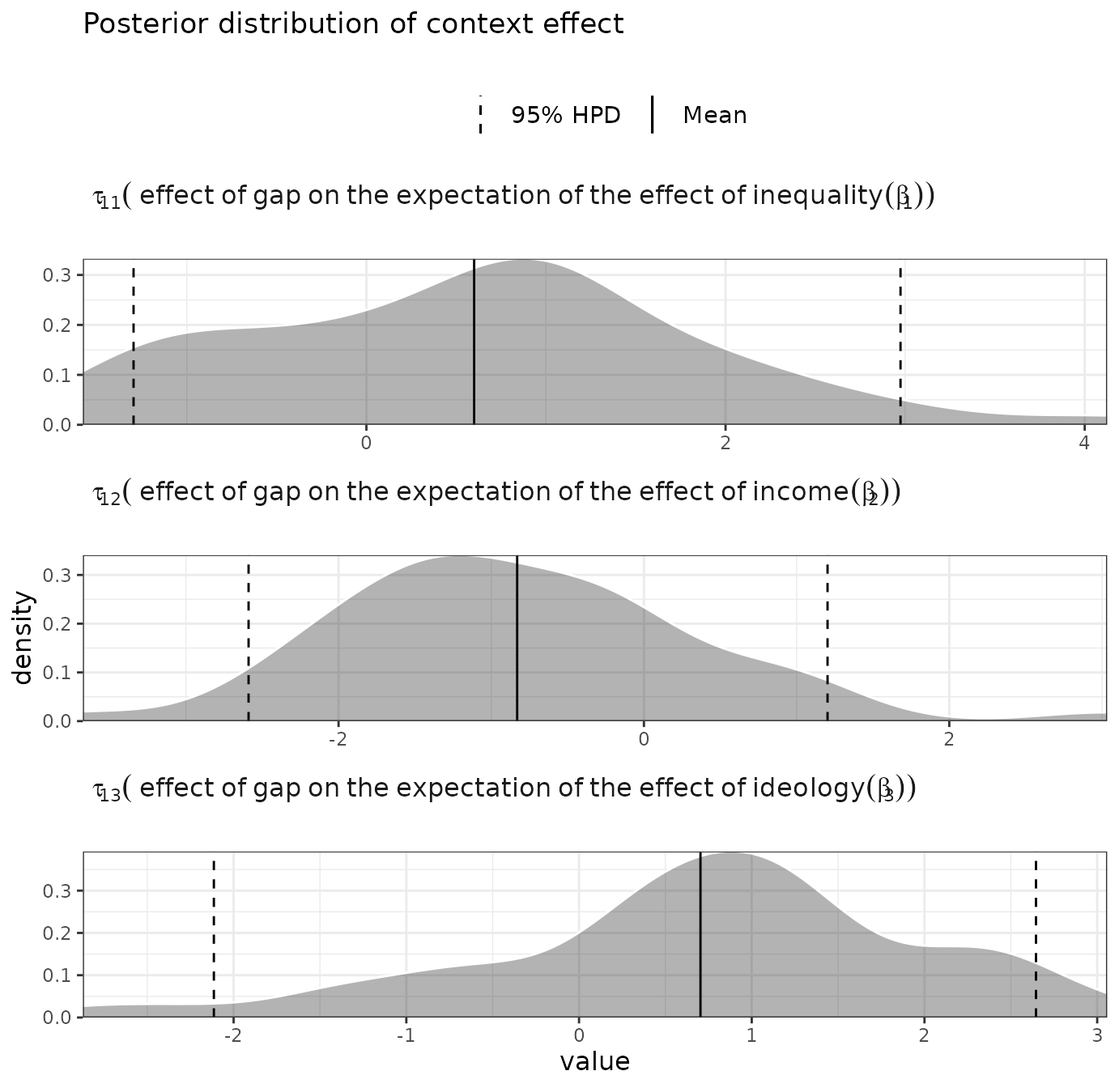
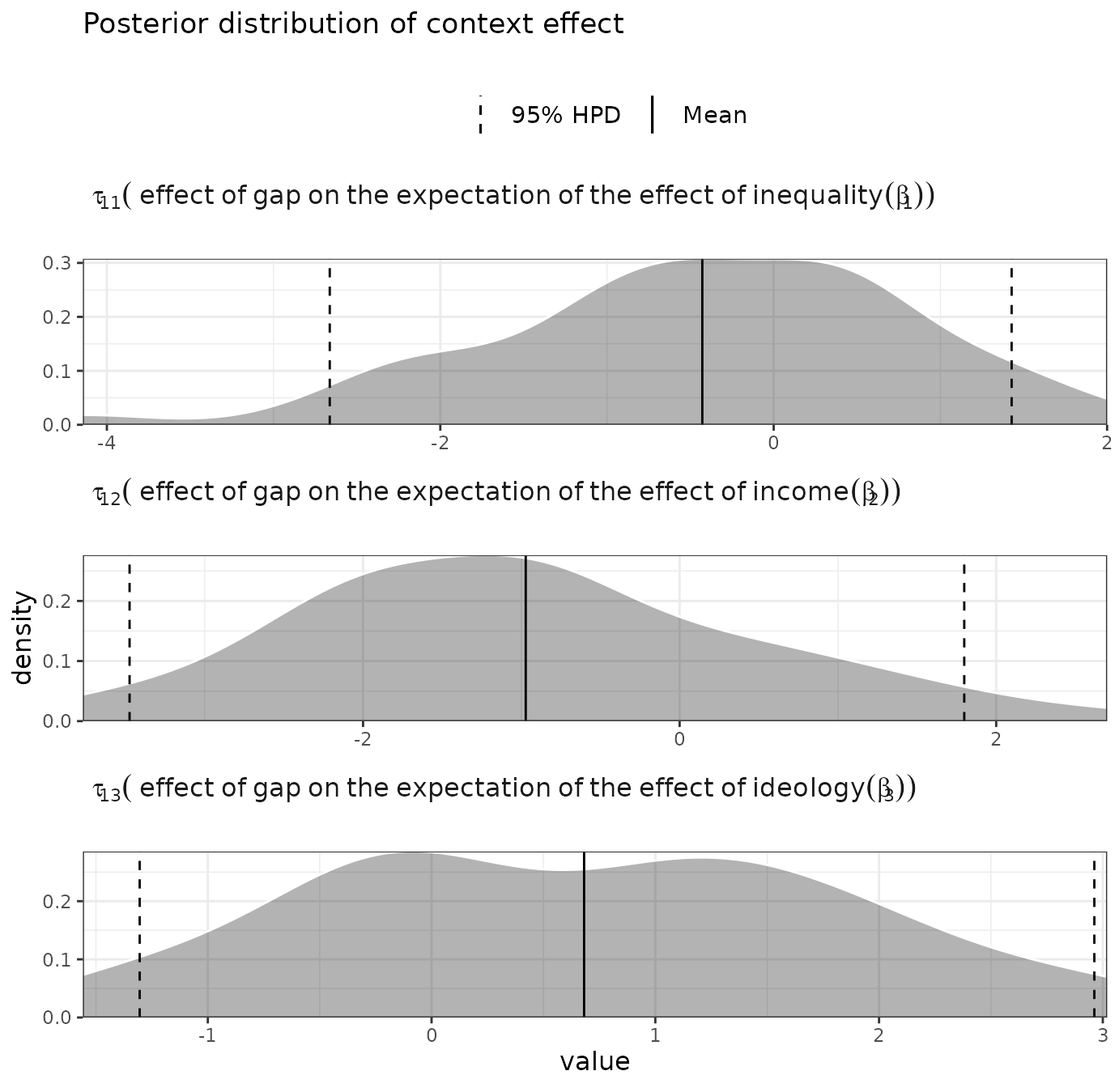
Deploying to gh-pages from @ DiogoFerrari/hdpGLM@8d0c778242d2fbf21b7e170e017e35fa1363b1d6 🚀

diff --git a/articles/hdpGLM.html b/articles/hdpGLM.html
@@ -197,7 +197,7 @@ number.</p>
 <span><span class="co">#&gt; ## ===============================================================</span></span>
 <span><span class="co">#&gt; </span></span>
 <span><span class="co">#&gt; Author: Diogo Ferrari</span></span>
-<span><span class="co">#&gt; Usage : http://www.diogoferrari.com/hdpGLM/index.html</span></span>
+<span><span class="co">#&gt; Usage : https://github.com/DiogoFerrari/hdpGLM</span></span>
 <span><span class="co">#&gt; </span></span>
 <span><span class="co">#&gt; Attaching package: 'hdpGLM'</span></span>
 <span><span class="co">#&gt; The following object is masked _by_ '.GlobalEnv':</span></span>
@@ -216,7 +216,7 @@ number.</p>
 <span><span class="co">#&gt; -------------------------------- </span></span>
 <span><span class="co">#&gt; dpGLM model object</span></span>
 <span><span class="co">#&gt; </span></span>
-<span><span class="co">#&gt; Maximum number of clusters activated during the estimation: 16</span></span>
+<span><span class="co">#&gt; Maximum number of clusters activated during the estimation: 13</span></span>
 <span><span class="co">#&gt; Number of MCMC iterations: 500</span></span>
 <span><span class="co">#&gt; burn-in: 10</span></span>
 <span><span class="co">#&gt; -------------------------------- </span></span>
@@ -226,22 +226,22 @@ number.</p>
 <span><span class="co">#&gt; --------------------------------</span></span>
 <span><span class="co">#&gt; Coefficients for cluster 1 (cluster label 1)</span></span>
 <span><span class="co">#&gt; </span></span>
-<span><span class="co">#&gt;                Post.Mean Post.Median  HPD.lower HPD.upper</span></span>
-<span><span class="co">#&gt; 1 (Intercept) -3.8169985  -3.8191160 -3.8918910 -3.754108</span></span>
-<span><span class="co">#&gt; 2  inequality -1.5166133  -1.5184802 -1.5894280 -1.452637</span></span>
-<span><span class="co">#&gt; 3      income  3.8770504   3.8773247  3.8061103  3.953092</span></span>
-<span><span class="co">#&gt; 4    ideology -8.2546440  -8.2537404 -8.3331949 -8.192447</span></span>
-<span><span class="co">#&gt; 5       sigma  0.9853141   0.9860343  0.8764047  1.094404</span></span>
+<span><span class="co">#&gt;               Post.Mean Post.Median  HPD.lower HPD.upper</span></span>
+<span><span class="co">#&gt; 1 (Intercept) -3.868555   -3.870347 -3.9401487 -3.799338</span></span>
+<span><span class="co">#&gt; 2  inequality  1.998218    1.998661  1.9327976  2.067530</span></span>
+<span><span class="co">#&gt; 3      income  3.846936    3.849141  3.7687215  3.914183</span></span>
+<span><span class="co">#&gt; 4    ideology -8.308009   -8.306441 -8.3865280 -8.237247</span></span>
+<span><span class="co">#&gt; 5       sigma  1.001198    1.000764  0.9169064  1.083288</span></span>
 <span><span class="co">#&gt; </span></span>
 <span><span class="co">#&gt; --------------------------------</span></span>
-<span><span class="co">#&gt; Coefficients for cluster 2 (cluster label 10)</span></span>
+<span><span class="co">#&gt; Coefficients for cluster 2 (cluster label 3)</span></span>
 <span><span class="co">#&gt; </span></span>
-<span><span class="co">#&gt;               Post.Mean Post.Median  HPD.lower HPD.upper</span></span>
-<span><span class="co">#&gt; 1 (Intercept) -3.870622   -3.872127 -3.9370319 -3.798184</span></span>
-<span><span class="co">#&gt; 2  inequality  2.000834    2.000312  1.9220563  2.068377</span></span>
-<span><span class="co">#&gt; 3      income  3.850588    3.848918  3.7810806  3.924965</span></span>
-<span><span class="co">#&gt; 4    ideology -8.308805   -8.309267 -8.3751355 -8.238710</span></span>
-<span><span class="co">#&gt; 5       sigma  1.000533    1.000359  0.9180542  1.098193</span></span>
+<span><span class="co">#&gt;                Post.Mean Post.Median  HPD.lower HPD.upper</span></span>
+<span><span class="co">#&gt; 1 (Intercept) -3.8191774  -3.8193540 -3.8939307 -3.757629</span></span>
+<span><span class="co">#&gt; 2  inequality -1.5227700  -1.5229013 -1.5859318 -1.455159</span></span>
+<span><span class="co">#&gt; 3      income  3.8803664   3.8829602  3.8090166  3.938669</span></span>
+<span><span class="co">#&gt; 4    ideology -8.2592800  -8.2609427 -8.3297705 -8.186700</span></span>
+<span><span class="co">#&gt; 5       sigma  0.9718166   0.9730245  0.8695889  1.078051</span></span>
 <span><span class="co">#&gt; </span></span>
 <span><span class="co">#&gt; --------------------------------</span></span></code></pre></div>
 <p>The summary function prints the result in a tidy format. The column
@@ -254,20 +254,20 @@ points into clusters based on the estimation.</p>
 <code class="sourceCode R"><span><span class="va">welfare_clustered</span> <span class="op">=</span> <span class="fu"><a href="../reference/classify.html">classify</a></span><span class="op">(</span><span class="va">welfare</span>, <span class="va">mod</span><span class="op">)</span></span>
 <span><span class="fu"><a href="https://rdrr.io/r/utils/head.html" class="external-link">head</a></span><span class="op">(</span><span class="va">welfare_clustered</span><span class="op">)</span></span>
 <span><span class="co">#&gt;   Cluster     support inequality     income   ideology</span></span>
-<span><span class="co">#&gt; 1      10 -18.5649610  0.3392724  0.1425111  1.9225985</span></span>
-<span><span class="co">#&gt; 2      10  -9.3905812 -0.9906646 -0.5117102  0.2483346</span></span>
-<span><span class="co">#&gt; 3      10   0.9276234 -2.2318510 -0.3856288 -1.3619216</span></span>
-<span><span class="co">#&gt; 4      10 -12.3594498 -3.0079501 -0.9440585 -0.2088675</span></span>
-<span><span class="co">#&gt; 5       1  -2.4834411  0.1000455  0.8322192  0.1321378</span></span>
-<span><span class="co">#&gt; 6      10 -11.4187853 -0.9543883 -0.8810503  0.2916444</span></span>
+<span><span class="co">#&gt; 1       1 -18.5649610  0.3392724  0.1425111  1.9225985</span></span>
+<span><span class="co">#&gt; 2       1  -9.3905812 -0.9906646 -0.5117102  0.2483346</span></span>
+<span><span class="co">#&gt; 3       1   0.9276234 -2.2318510 -0.3856288 -1.3619216</span></span>
+<span><span class="co">#&gt; 4       1 -12.3594498 -3.0079501 -0.9440585 -0.2088675</span></span>
+<span><span class="co">#&gt; 5       3  -2.4834411  0.1000455  0.8322192  0.1321378</span></span>
+<span><span class="co">#&gt; 6       1 -11.4187853 -0.9543883 -0.8810503  0.2916444</span></span>
 <span><span class="fu"><a href="https://rdrr.io/r/utils/head.html" class="external-link">tail</a></span><span class="op">(</span><span class="va">welfare_clustered</span><span class="op">)</span></span>
 <span><span class="co">#&gt;      Cluster     support  inequality     income   ideology</span></span>
-<span><span class="co">#&gt; 1995       1  -1.5230053 1.055855140 -0.7295937 -0.7067871</span></span>
-<span><span class="co">#&gt; 1996       1   0.4814892 0.582588091  2.0051082  0.3090389</span></span>
-<span><span class="co">#&gt; 1997       1 -14.1929956 0.391164197 -0.9607449  0.7765482</span></span>
-<span><span class="co">#&gt; 1998       1  -8.2396789 0.074437376  1.2020300  1.0874928</span></span>
-<span><span class="co">#&gt; 1999       1 -23.1583753 0.434223018 -0.6176438  2.0387294</span></span>
-<span><span class="co">#&gt; 2000       1  -7.2075582 0.008355317 -0.4538951  0.2268072</span></span></code></pre></div>
+<span><span class="co">#&gt; 1995       3  -1.5230053 1.055855140 -0.7295937 -0.7067871</span></span>
+<span><span class="co">#&gt; 1996       3   0.4814892 0.582588091  2.0051082  0.3090389</span></span>
+<span><span class="co">#&gt; 1997       3 -14.1929956 0.391164197 -0.9607449  0.7765482</span></span>
+<span><span class="co">#&gt; 1998       3  -8.2396789 0.074437376  1.2020300  1.0874928</span></span>
+<span><span class="co">#&gt; 1999       3 -23.1583753 0.434223018 -0.6176438  2.0387294</span></span>
+<span><span class="co">#&gt; 2000       3  -7.2075582 0.008355317 -0.4538951  0.2268072</span></span></code></pre></div>
 <p>There are a series of built-in functions, with various options, to
 plot the results. In the example below, you see two of those options.
 The <code>separate</code> parameter plot the posterior samples for each
@@ -339,8 +339,8 @@ increase that).</p>
 <span><span class="co">#&gt; </span></span>
 <span><span class="co">#&gt; Number of clusters (summary across contexts): </span></span>
 <span><span class="co">#&gt; </span></span>
-<span><span class="co">#&gt;   Average  Std.Dev Median Min. Max.</span></span>
-<span><span class="co">#&gt; 1     3.8 2.588436      3    1    7</span></span>
+<span><span class="co">#&gt;   Average   Std.Dev Median Min. Max.</span></span>
+<span><span class="co">#&gt; 1     4.4 0.8944272      5    3    5</span></span>
 <span><span class="co">#&gt; -------------------------------- </span></span>
 <span><span class="co">#&gt; </span></span>
 <span><span class="co">#&gt; </span></span>
@@ -349,115 +349,127 @@ increase that).</p>
 <span><span class="co">#&gt; --------------------------------</span></span>
 <span><span class="co">#&gt; Coefficients and clusters for context 1</span></span>
 <span><span class="co">#&gt; </span></span>
-<span><span class="co">#&gt;               Post.Mean Post.Median HPD.lower   HPD.upper Cluster</span></span>
-<span><span class="co">#&gt; 1 (Intercept) -3.812585   -3.812623 -3.887795 -3.75324806       1</span></span>
-<span><span class="co">#&gt; 2  inequality -1.358832   -1.520807 -1.585257  0.01854296       1</span></span>
-<span><span class="co">#&gt; 3      income  3.869229    3.871477  3.783608  3.95943658       1</span></span>
-<span><span class="co">#&gt; 4    ideology -8.289369   -8.272530 -8.486057 -8.20616875       1</span></span>
-<span><span class="co">#&gt; 5 (Intercept) -4.010705   -3.890695 -5.099688 -3.79557013       6</span></span>
-<span><span class="co">#&gt; 6  inequality  1.911035    1.990635  1.023356  2.08476848       6</span></span>
-<span><span class="co">#&gt; 7      income  3.982400    3.860998  3.791823  5.06405112       6</span></span>
-<span><span class="co">#&gt; 8    ideology -8.067727   -8.278478 -8.416527 -5.82263865       6</span></span>
+<span><span class="co">#&gt;                Post.Mean Post.Median  HPD.lower  HPD.upper Cluster</span></span>
+<span><span class="co">#&gt; 1  (Intercept) -3.800370   -3.783466 -3.9922197 -3.6122484       1</span></span>
+<span><span class="co">#&gt; 2   inequality  1.618596    1.833289  0.4759513  2.2912792       1</span></span>
+<span><span class="co">#&gt; 3       income  3.994601    3.990519  3.8265595  4.1912458       1</span></span>
+<span><span class="co">#&gt; 4     ideology -8.204922   -8.124089 -8.5786529 -7.9818213       1</span></span>
+<span><span class="co">#&gt; 5  (Intercept) -3.887592   -3.836871 -4.2888973 -3.7711119       2</span></span>
+<span><span class="co">#&gt; 6   inequality -1.473288   -1.568839 -1.6257933 -0.4638036       2</span></span>
+<span><span class="co">#&gt; 7       income  3.789683    3.877229  2.9838594  3.9275172       2</span></span>
+<span><span class="co">#&gt; 8     ideology -8.425623   -8.267579 -9.8263060 -8.1811864       2</span></span>
+<span><span class="co">#&gt; 9  (Intercept) -3.628117   -3.584349 -4.7977776 -2.4206453       8</span></span>
+<span><span class="co">#&gt; 10  inequality -1.614825   -1.749338 -2.7532028 -0.4408354       8</span></span>
+<span><span class="co">#&gt; 11      income  3.583080    3.774711  1.1701386  4.7216837       8</span></span>
+<span><span class="co">#&gt; 12    ideology -5.959179   -5.893952 -8.3520753 -2.0997397       8</span></span>
+<span><span class="co">#&gt; 13 (Intercept) -3.884210   -3.899800 -4.1935667 -3.7610941      10</span></span>
+<span><span class="co">#&gt; 14  inequality  2.071299    2.008700  1.8798002  2.3388525      10</span></span>
+<span><span class="co">#&gt; 15      income  3.819035    3.804780  3.6693099  4.0939735      10</span></span>
+<span><span class="co">#&gt; 16    ideology -8.313785   -8.340803 -8.7999466 -8.1057009      10</span></span>
 <span><span class="co">#&gt; </span></span>
 <span><span class="co">#&gt; --------------------------------</span></span>
 <span><span class="co">#&gt; Coefficients and clusters for context 2</span></span>
 <span><span class="co">#&gt; </span></span>
-<span><span class="co">#&gt;                 Post.Mean Post.Median  HPD.lower     HPD.upper Cluster</span></span>
-<span><span class="co">#&gt; 1  (Intercept)  1.5482685   0.9413472 -0.1401382  5.3443790812       1</span></span>
-<span><span class="co">#&gt; 2   inequality  0.2470163   0.1191455 -3.9739251  3.8748005285       1</span></span>
-<span><span class="co">#&gt; 3       income  1.8724505   1.0146681 -2.5288670  6.0807805776       1</span></span>
-<span><span class="co">#&gt; 4     ideology -1.3170204  -1.5976388 -4.6574534  2.7888708223       1</span></span>
-<span><span class="co">#&gt; 5  (Intercept)  1.5285735   1.4807925  1.2891914  1.9462248942       2</span></span>
-<span><span class="co">#&gt; 6   inequality  0.8432104   1.0013248  0.1601813  1.1977333480       2</span></span>
-<span><span class="co">#&gt; 7       income  0.7503137   0.7819057  0.3035157  0.9630269993       2</span></span>
-<span><span class="co">#&gt; 8     ideology -1.8872858  -1.7688398 -3.1950157 -1.5820123823       2</span></span>
-<span><span class="co">#&gt; 9  (Intercept) -0.2717237  -0.2489124 -0.6931113  0.0003502826       3</span></span>
-<span><span class="co">#&gt; 10  inequality -1.1563480  -1.1882276 -1.4052772 -0.8054131537       3</span></span>
-<span><span class="co">#&gt; 11      income -0.3685679  -0.4538476 -0.7646824  0.5398268384       3</span></span>
-<span><span class="co">#&gt; 12    ideology -2.2564023  -2.2724278 -2.4893145 -1.9787167576       3</span></span>
-<span><span class="co">#&gt; 13 (Intercept)  0.9508466   1.0900442 -0.7672420  3.1286138997       4</span></span>
-<span><span class="co">#&gt; 14  inequality -1.4791436  -1.1875157 -4.3939827  0.7953665602       4</span></span>
-<span><span class="co">#&gt; 15      income  1.7719908   1.7138220  1.0330258  2.7049540609       4</span></span>
-<span><span class="co">#&gt; 16    ideology -1.1026112  -0.7876458 -4.1553742  0.6894510312       4</span></span>
-<span><span class="co">#&gt; 17 (Intercept)  0.3903606   0.4015931 -0.3902788  0.8240772520       5</span></span>
-<span><span class="co">#&gt; 18  inequality  1.7579351   1.8247953  1.0788931  2.3141305561       5</span></span>
-<span><span class="co">#&gt; 19      income  0.8279896   0.7312969  0.4055766  1.5182004959       5</span></span>
-<span><span class="co">#&gt; 20    ideology -2.3099216  -2.2721546 -2.8327201 -1.9184424018       5</span></span>
-<span><span class="co">#&gt; 21 (Intercept) -0.4948082  -0.2769538 -3.3936984  0.9411309421       8</span></span>
-<span><span class="co">#&gt; 22  inequality -0.9021012  -0.9460951 -1.7583695  1.2316576586       8</span></span>
-<span><span class="co">#&gt; 23      income -0.3295737  -0.4314418 -1.3506383  2.3222936362       8</span></span>
-<span><span class="co">#&gt; 24    ideology -1.0219960  -1.2538095 -2.6139513  1.6627378018       8</span></span>
-<span><span class="co">#&gt; 25 (Intercept)  1.5827843   1.5869876  0.8716365  2.5070728683       9</span></span>
-<span><span class="co">#&gt; 26  inequality  0.6945229   0.6974450 -0.7722265  1.9164806682       9</span></span>
-<span><span class="co">#&gt; 27      income  0.6169998   0.7941595 -1.3161252  2.0614764072       9</span></span>
-<span><span class="co">#&gt; 28    ideology -2.6157978  -2.4635686 -4.4834678 -0.4892047111       9</span></span>
-<span><span class="co">#&gt; </span></span>
-<span><span class="co">#&gt; --------------------------------</span></span>
-<span><span class="co">#&gt; Coefficients and clusters for context 4</span></span>
-<span><span class="co">#&gt; </span></span>
-<span><span class="co">#&gt;                 Post.Mean Post.Median  HPD.lower  HPD.upper Cluster</span></span>
-<span><span class="co">#&gt; 1 (Intercept)  0.08364021   0.1154415 -0.6530777  0.5165699       2</span></span>
-<span><span class="co">#&gt; 2  inequality -1.09572042  -1.0981277 -1.2467635 -0.8834268       2</span></span>
-<span><span class="co">#&gt; 3      income -2.43025240  -2.5680450 -2.7623654 -0.4334839       2</span></span>
-<span><span class="co">#&gt; 4    ideology -0.10958224  -0.1086207 -0.4067710  0.2360204       2</span></span>
-<span><span class="co">#&gt; </span></span>
-<span><span class="co">#&gt; --------------------------------</span></span>
-<span><span class="co">#&gt; Coefficients and clusters for context 5</span></span>
-<span><span class="co">#&gt; </span></span>
-<span><span class="co">#&gt;                  Post.Mean Post.Median  HPD.lower  HPD.upper Cluster</span></span>
-<span><span class="co">#&gt; 1  (Intercept)  0.95513955  0.92491626  0.2200681  2.9018225       2</span></span>
-<span><span class="co">#&gt; 2   inequality -3.06973403 -3.02921869 -3.9374967 -1.7614430       2</span></span>
-<span><span class="co">#&gt; 3       income  0.06694747  0.01568205 -0.4811542  0.8601315       2</span></span>
-<span><span class="co">#&gt; 4     ideology -2.65542954 -2.73707320 -4.1943833 -1.5911375       2</span></span>
-<span><span class="co">#&gt; 5  (Intercept)  0.62045630  0.81435738 -3.2090353  3.1139297       3</span></span>
-<span><span class="co">#&gt; 6   inequality -2.33563237 -2.71479039 -4.1079529  2.8869986       3</span></span>
-<span><span class="co">#&gt; 7       income -0.64957141 -1.29758231 -4.1718455  2.9489251       3</span></span>
-<span><span class="co">#&gt; 8     ideology -1.52958518 -1.95172925 -8.5021049  4.1111532       3</span></span>
-<span><span class="co">#&gt; 9  (Intercept) -0.21737068 -0.29826126 -1.5851549  0.7740002       5</span></span>
-<span><span class="co">#&gt; 10  inequality -2.17331081 -2.26943058 -3.7153081 -1.4183500       5</span></span>
-<span><span class="co">#&gt; 11      income -0.11582130 -0.04680592 -0.9651180  0.6759692       5</span></span>
-<span><span class="co">#&gt; 12    ideology -1.07515421 -1.10491210 -2.6587556  1.8037906       5</span></span>
-<span><span class="co">#&gt; 13 (Intercept) -0.08809918 -0.11626902 -0.4907884  0.6644956       7</span></span>
-<span><span class="co">#&gt; 14  inequality  1.00471276  0.95489288  0.6972902  1.6411457       7</span></span>
-<span><span class="co">#&gt; 15      income -0.41360624 -0.36933672 -1.3102114 -0.1223445       7</span></span>
-<span><span class="co">#&gt; 16    ideology -1.82000287 -1.91785259 -2.1520805 -0.3250652       7</span></span>
-<span><span class="co">#&gt; 17 (Intercept) -0.17690480 -0.14926750 -0.6179532  0.3347957       8</span></span>
-<span><span class="co">#&gt; 18  inequality -1.46618215 -2.11007655 -2.8508528  0.9472613       8</span></span>
-<span><span class="co">#&gt; 19      income -0.15596091 -0.06328917 -0.7146788  0.4247225       8</span></span>
-<span><span class="co">#&gt; 20    ideology -2.62329883 -2.60434821 -3.1860973 -2.1389238       8</span></span>
-<span><span class="co">#&gt; 21 (Intercept)  1.03859507  1.06333312 -0.7150022  3.6412196       9</span></span>
-<span><span class="co">#&gt; 22  inequality -2.50520609 -2.67322151 -3.8673556 -0.7558472       9</span></span>
-<span><span class="co">#&gt; 23      income -0.29257262 -0.65003751 -2.0775271  1.0751024       9</span></span>
-<span><span class="co">#&gt; 24    ideology -2.05845535 -1.98679230 -4.7719357 -0.4752583       9</span></span>
+<span><span class="co">#&gt;                  Post.Mean Post.Median    HPD.lower   HPD.upper Cluster</span></span>
+<span><span class="co">#&gt; 1  (Intercept)  0.29661530   0.3406813  0.008064511  0.61786049       1</span></span>
+<span><span class="co">#&gt; 2   inequality -0.32863626  -0.3736720 -0.664763858  0.15967424       1</span></span>
+<span><span class="co">#&gt; 3       income -0.37614820  -0.3799771 -0.471688696 -0.22234621       1</span></span>
+<span><span class="co">#&gt; 4     ideology -2.03868484  -2.0651415 -2.551952653 -1.55206318       1</span></span>
+<span><span class="co">#&gt; 5  (Intercept)  0.52701714   0.5477522 -0.238967913  1.48582507       4</span></span>
+<span><span class="co">#&gt; 6   inequality  0.42033760   0.1351329 -1.004660724  3.15798321       4</span></span>
+<span><span class="co">#&gt; 7       income  1.17765322   1.1770868 -0.642542298  2.18268473       4</span></span>
+<span><span class="co">#&gt; 8     ideology -0.75998524  -0.3307561 -2.658230853  0.77443607       4</span></span>
+<span><span class="co">#&gt; 9  (Intercept) -0.05197006  -0.1327031 -0.389494004  0.97375674       5</span></span>
+<span><span class="co">#&gt; 10  inequality -1.43736803  -1.3837922 -2.015643720 -1.15644490       5</span></span>
+<span><span class="co">#&gt; 11      income -0.80396959  -0.7983870 -1.242554573 -0.54326017       5</span></span>
+<span><span class="co">#&gt; 12    ideology -2.59894715  -2.5018236 -4.310713254 -2.26228096       5</span></span>
+<span><span class="co">#&gt; 13 (Intercept)  1.13875937   1.2030687 -0.106233685  1.61555976       7</span></span>
+<span><span class="co">#&gt; 14  inequality  1.04413616   0.9685113  0.643769967  2.11794429       7</span></span>
+<span><span class="co">#&gt; 15      income  1.05771182   0.9606064  0.635653579  2.77769657       7</span></span>
+<span><span class="co">#&gt; 16    ideology -1.56671347  -1.6526658 -1.971240198 -0.41946366       7</span></span>
+<span><span class="co">#&gt; 17 (Intercept) -0.33710642  -0.3938162 -1.050412149  0.98192815       8</span></span>
+<span><span class="co">#&gt; 18  inequality -1.11500445  -1.0960214 -1.865566798 -0.01620748       8</span></span>
+<span><span class="co">#&gt; 19      income -0.34283137  -0.4145159 -0.810511530  0.65655544       8</span></span>
+<span><span class="co">#&gt; 20    ideology -2.05109332  -2.1564527 -2.596017861 -1.13565926       8</span></span>
 <span><span class="co">#&gt; </span></span>
 <span><span class="co">#&gt; --------------------------------</span></span>
 <span><span class="co">#&gt; Coefficients and clusters for context 3</span></span>
 <span><span class="co">#&gt; </span></span>
-<span><span class="co">#&gt;                 Post.Mean Post.Median  HPD.lower  HPD.upper Cluster</span></span>
-<span><span class="co">#&gt; 1  (Intercept) -0.1740308 -0.18628546 -0.4192022  0.2007200       3</span></span>
-<span><span class="co">#&gt; 2   inequality  0.5136865  0.45453972  0.2457688  1.1597659       3</span></span>
-<span><span class="co">#&gt; 3       income -2.8561609 -2.78959689 -3.9482222 -2.4206947       3</span></span>
-<span><span class="co">#&gt; 4     ideology  2.4374605  2.44519226  1.9058576  3.3392848       3</span></span>
-<span><span class="co">#&gt; 5  (Intercept) -0.1228627 -0.04712069 -1.3127186  0.3200305       4</span></span>
-<span><span class="co">#&gt; 6   inequality  1.5094112  1.31468749  0.2514931  6.8307673       4</span></span>
-<span><span class="co">#&gt; 7       income -3.3471268 -3.47594917 -4.2742524 -1.7424259       4</span></span>
-<span><span class="co">#&gt; 8     ideology  1.4321723  1.72255869 -2.0775788  2.4820400       4</span></span>
-<span><span class="co">#&gt; 9  (Intercept) -0.1157258 -0.25570425 -0.4471715  2.2532281       5</span></span>
-<span><span class="co">#&gt; 10  inequality -0.6621056 -0.62730342 -1.2002166 -0.4059057       5</span></span>
-<span><span class="co">#&gt; 11      income -4.0781626 -4.08606584 -4.3318154 -3.6821355       5</span></span>
-<span><span class="co">#&gt; 12    ideology  0.5819177  0.58128869  0.2651552  0.9355151       5</span></span>
+<span><span class="co">#&gt;                 Post.Mean Post.Median  HPD.lower   HPD.upper Cluster</span></span>
+<span><span class="co">#&gt; 1  (Intercept) -0.2312422 -0.25482905 -0.4252981  0.09198443       1</span></span>
+<span><span class="co">#&gt; 2   inequality -0.4148372 -0.47798895 -0.6330432 -0.13441767       1</span></span>
+<span><span class="co">#&gt; 3       income -3.9181901 -3.80947924 -4.4666399 -3.45128977       1</span></span>
+<span><span class="co">#&gt; 4     ideology  0.5575980  0.41655557  0.2586098  1.17214941       1</span></span>
+<span><span class="co">#&gt; 5  (Intercept)  0.5244460  0.44056280  0.2906812  1.49459758       2</span></span>
+<span><span class="co">#&gt; 6   inequality -0.3655482 -0.37508005 -0.6095646 -0.17916480       2</span></span>
+<span><span class="co">#&gt; 7       income -3.4744648 -3.45899487 -3.6006148 -3.34967926       2</span></span>
+<span><span class="co">#&gt; 8     ideology  1.4362724  1.44275998  1.2135763  1.61715689       2</span></span>
+<span><span class="co">#&gt; 9  (Intercept) -0.8756784 -0.83562054 -1.9480126  0.06677308       4</span></span>
+<span><span class="co">#&gt; 10  inequality  0.6314807  0.67117685 -0.3009253  1.74407685       4</span></span>
+<span><span class="co">#&gt; 11      income -3.5711309 -3.65614268 -4.1114885 -2.96753653       4</span></span>
+<span><span class="co">#&gt; 12    ideology  1.2008272  1.23421901  0.5902466  1.85549199       4</span></span>
+<span><span class="co">#&gt; 13 (Intercept) -0.2999728 -0.22777570 -1.3382738  0.14066177       6</span></span>
+<span><span class="co">#&gt; 14  inequality -0.6124774 -0.71125808 -1.1865193  0.55336694       6</span></span>
+<span><span class="co">#&gt; 15      income -4.0862356 -4.14763882 -4.4143935 -3.62038636       6</span></span>
+<span><span class="co">#&gt; 16    ideology  0.4314110  0.52791467 -0.1247424  0.95791627       6</span></span>
+<span><span class="co">#&gt; 17 (Intercept) -0.1723033 -0.07954478 -1.3790638  0.44024132       7</span></span>
+<span><span class="co">#&gt; 18  inequality  0.3547321  0.35764933 -0.1825874  0.68378426       7</span></span>
+<span><span class="co">#&gt; 19      income -2.8143694 -2.84521909 -3.0791130 -2.31395469       7</span></span>
+<span><span class="co">#&gt; 20    ideology  2.0007994  2.37007688 -0.3953435  2.61218711       7</span></span>
+<span><span class="co">#&gt; </span></span>
+<span><span class="co">#&gt; --------------------------------</span></span>
+<span><span class="co">#&gt; Coefficients and clusters for context 4</span></span>
+<span><span class="co">#&gt; </span></span>
+<span><span class="co">#&gt;                  Post.Mean Post.Median   HPD.lower    HPD.upper Cluster</span></span>
+<span><span class="co">#&gt; 1  (Intercept)  0.06011163   0.1384782 -0.49925286  0.420170044       1</span></span>
+<span><span class="co">#&gt; 2   inequality -1.11832430  -1.1331009 -1.31121481 -0.734132115       1</span></span>
+<span><span class="co">#&gt; 3       income -2.72076010  -2.6228498 -3.26112158 -2.283944752       1</span></span>
+<span><span class="co">#&gt; 4     ideology  0.60719453   0.9056194 -0.27004799  1.149194758       1</span></span>
+<span><span class="co">#&gt; 5  (Intercept)  0.47269522   0.4881007  0.32701206  0.590461906       2</span></span>
+<span><span class="co">#&gt; 6   inequality -0.36177411  -0.4067363 -0.58395352  0.124469431       2</span></span>
+<span><span class="co">#&gt; 7       income -3.37047788  -3.3743027 -3.51764803 -3.130357897       2</span></span>
+<span><span class="co">#&gt; 8     ideology -0.35877916  -0.3446824 -1.05197908  0.006250322       2</span></span>
+<span><span class="co">#&gt; 9  (Intercept)  0.12984347   0.1219077 -0.09553569  0.297169620       3</span></span>
+<span><span class="co">#&gt; 10  inequality -1.10586191  -1.1007988 -1.22135040 -1.020023866       3</span></span>
+<span><span class="co">#&gt; 11      income -2.51471683  -2.5166646 -2.65735800 -2.282177195       3</span></span>
+<span><span class="co">#&gt; 12    ideology -0.11794136  -0.1244650 -0.29091042  0.110974115       3</span></span>
+<span><span class="co">#&gt; </span></span>
+<span><span class="co">#&gt; --------------------------------</span></span>
+<span><span class="co">#&gt; Coefficients and clusters for context 5</span></span>
+<span><span class="co">#&gt; </span></span>
+<span><span class="co">#&gt;                  Post.Mean Post.Median   HPD.lower   HPD.upper Cluster</span></span>
+<span><span class="co">#&gt; 1  (Intercept)  0.88530949  1.66455871 -1.94312344  3.36241351       2</span></span>
+<span><span class="co">#&gt; 2   inequality  1.21999868  1.06238139  0.00784537  4.39471903       2</span></span>
+<span><span class="co">#&gt; 3       income -1.16613431 -1.54463857 -2.91187829  2.44384084       2</span></span>
+<span><span class="co">#&gt; 4     ideology -2.16458880 -2.37690967 -3.90005693  1.60705040       2</span></span>
+<span><span class="co">#&gt; 5  (Intercept) -0.88848626 -0.73318963 -2.16674952 -0.08036173       4</span></span>
+<span><span class="co">#&gt; 6   inequality  0.17085085  0.38136278 -1.00606046  0.95171824       4</span></span>
+<span><span class="co">#&gt; 7       income -0.08002341 -0.23574890 -0.78698820  1.23273818       4</span></span>
+<span><span class="co">#&gt; 8     ideology -1.64021535 -1.62072980 -2.19687095 -1.20081617       4</span></span>
+<span><span class="co">#&gt; 9  (Intercept)  0.12035097  0.11451375 -0.14451133  0.42805125       5</span></span>
+<span><span class="co">#&gt; 10  inequality -2.77540465 -2.77862204 -3.05524814 -2.49756652       5</span></span>
+<span><span class="co">#&gt; 11      income -0.22917753 -0.24678100 -0.42116065  0.02825103       5</span></span>
+<span><span class="co">#&gt; 12    ideology -2.25645553 -2.28506125 -2.44260291 -2.03365534       5</span></span>
+<span><span class="co">#&gt; 13 (Intercept) -0.11879422 -0.09146501 -0.53673129  0.25271781       6</span></span>
+<span><span class="co">#&gt; 14  inequality  1.21977074  1.14672255  0.83598113  2.23605015       6</span></span>
+<span><span class="co">#&gt; 15      income -0.35060597 -0.35351200 -0.81366336  0.11312321       6</span></span>
+<span><span class="co">#&gt; 16    ideology -2.48355590 -2.47316541 -2.84260355 -2.16629580       6</span></span>
+<span><span class="co">#&gt; 17 (Intercept)  0.01955925  0.08660077 -3.08454610  0.70715355       8</span></span>
+<span><span class="co">#&gt; 18  inequality  0.65508624  0.91598946 -1.32850441  1.57571538       8</span></span>
+<span><span class="co">#&gt; 19      income -0.46543804 -0.21579012 -4.16112339  0.42018201       8</span></span>
+<span><span class="co">#&gt; 20    ideology -1.63597261 -1.70823197 -3.49664551  1.20260836       8</span></span>
 <span><span class="co">#&gt; </span></span>
 <span><span class="co">#&gt; --------------------------------</span></span>
 <span><span class="co">#&gt; Context-level coefficients:</span></span>
 <span><span class="co">#&gt;                Description   Post.Mean HPD.lower HPD.upper</span></span>
-<span><span class="co">#&gt; 1     Intercept of beta[0]  0.05627036 -3.144050  3.559132</span></span>
-<span><span class="co">#&gt; 2     Intercept of beta[1] -0.12351139 -3.362341  2.745937</span></span>
-<span><span class="co">#&gt; 3     Intercept of beta[2] -0.37523984 -2.358426  2.330747</span></span>
-<span><span class="co">#&gt; 4     Intercept of beta[3] -0.61632991 -2.819034  1.664951</span></span>
-<span><span class="co">#&gt; 5 Effect of gap on beta[0] -0.03357492 -2.327259  1.795201</span></span>
-<span><span class="co">#&gt; 6 Effect of gap on beta[1]  0.60003824 -1.296598  2.974322</span></span>
-<span><span class="co">#&gt; 7 Effect of gap on beta[2] -0.83017808 -2.589386  1.202593</span></span>
-<span><span class="co">#&gt; 8 Effect of gap on beta[3]  0.70308993 -2.114292  2.645674</span></span>
+<span><span class="co">#&gt; 1     Intercept of beta[0]  0.09979231 -2.036646  2.242109</span></span>
+<span><span class="co">#&gt; 2     Intercept of beta[1] -0.40300768 -3.642706  2.225240</span></span>
+<span><span class="co">#&gt; 3     Intercept of beta[2] -0.51842060 -3.117181  2.008340</span></span>
+<span><span class="co">#&gt; 4     Intercept of beta[3] -1.21853453 -3.808324  1.118209</span></span>
+<span><span class="co">#&gt; 5 Effect of gap on beta[0] -0.01381552 -2.301143  2.363109</span></span>
+<span><span class="co">#&gt; 6 Effect of gap on beta[1] -0.42816075 -2.663003  1.427426</span></span>
+<span><span class="co">#&gt; 7 Effect of gap on beta[2] -0.97216355 -3.475053  1.798254</span></span>
+<span><span class="co">#&gt; 8 Effect of gap on beta[3]  0.68173484 -1.304568  2.962140</span></span>
 <span><span class="co">#&gt; </span></span>
 <span><span class="co">#&gt; --------------------------------</span></span></code></pre></div>
 <p>The <code>summary</code> contains more information now. As before,

diff --git a/index.html b/index.html
@@ -104,7 +104,7 @@
 <div class="section level1">
 <h1 id="usage">Usage<a class="anchor" aria-label="anchor" href="#usage"></a>
 </h1>
-<p>For more details, see package <a href="http://www.diogoferrari.com/hdpGLM/index.html">website</a>. Here is a simple example:</p>
+<p>Here is a simple example of how to use the package:</p>
 <pre><code><span><span class="kw"><a href="https://rdrr.io/r/base/library.html" class="external-link">library</a></span><span class="op">(</span><span class="va"><a href="https://github.com/DiogoFerrari/hdpGLM" class="external-link">hdpGLM</a></span><span class="op">)</span></span>
 <span></span>
 <span><span class="co">## Example for the dpGLM (no hierarchical structure)</span></span>
